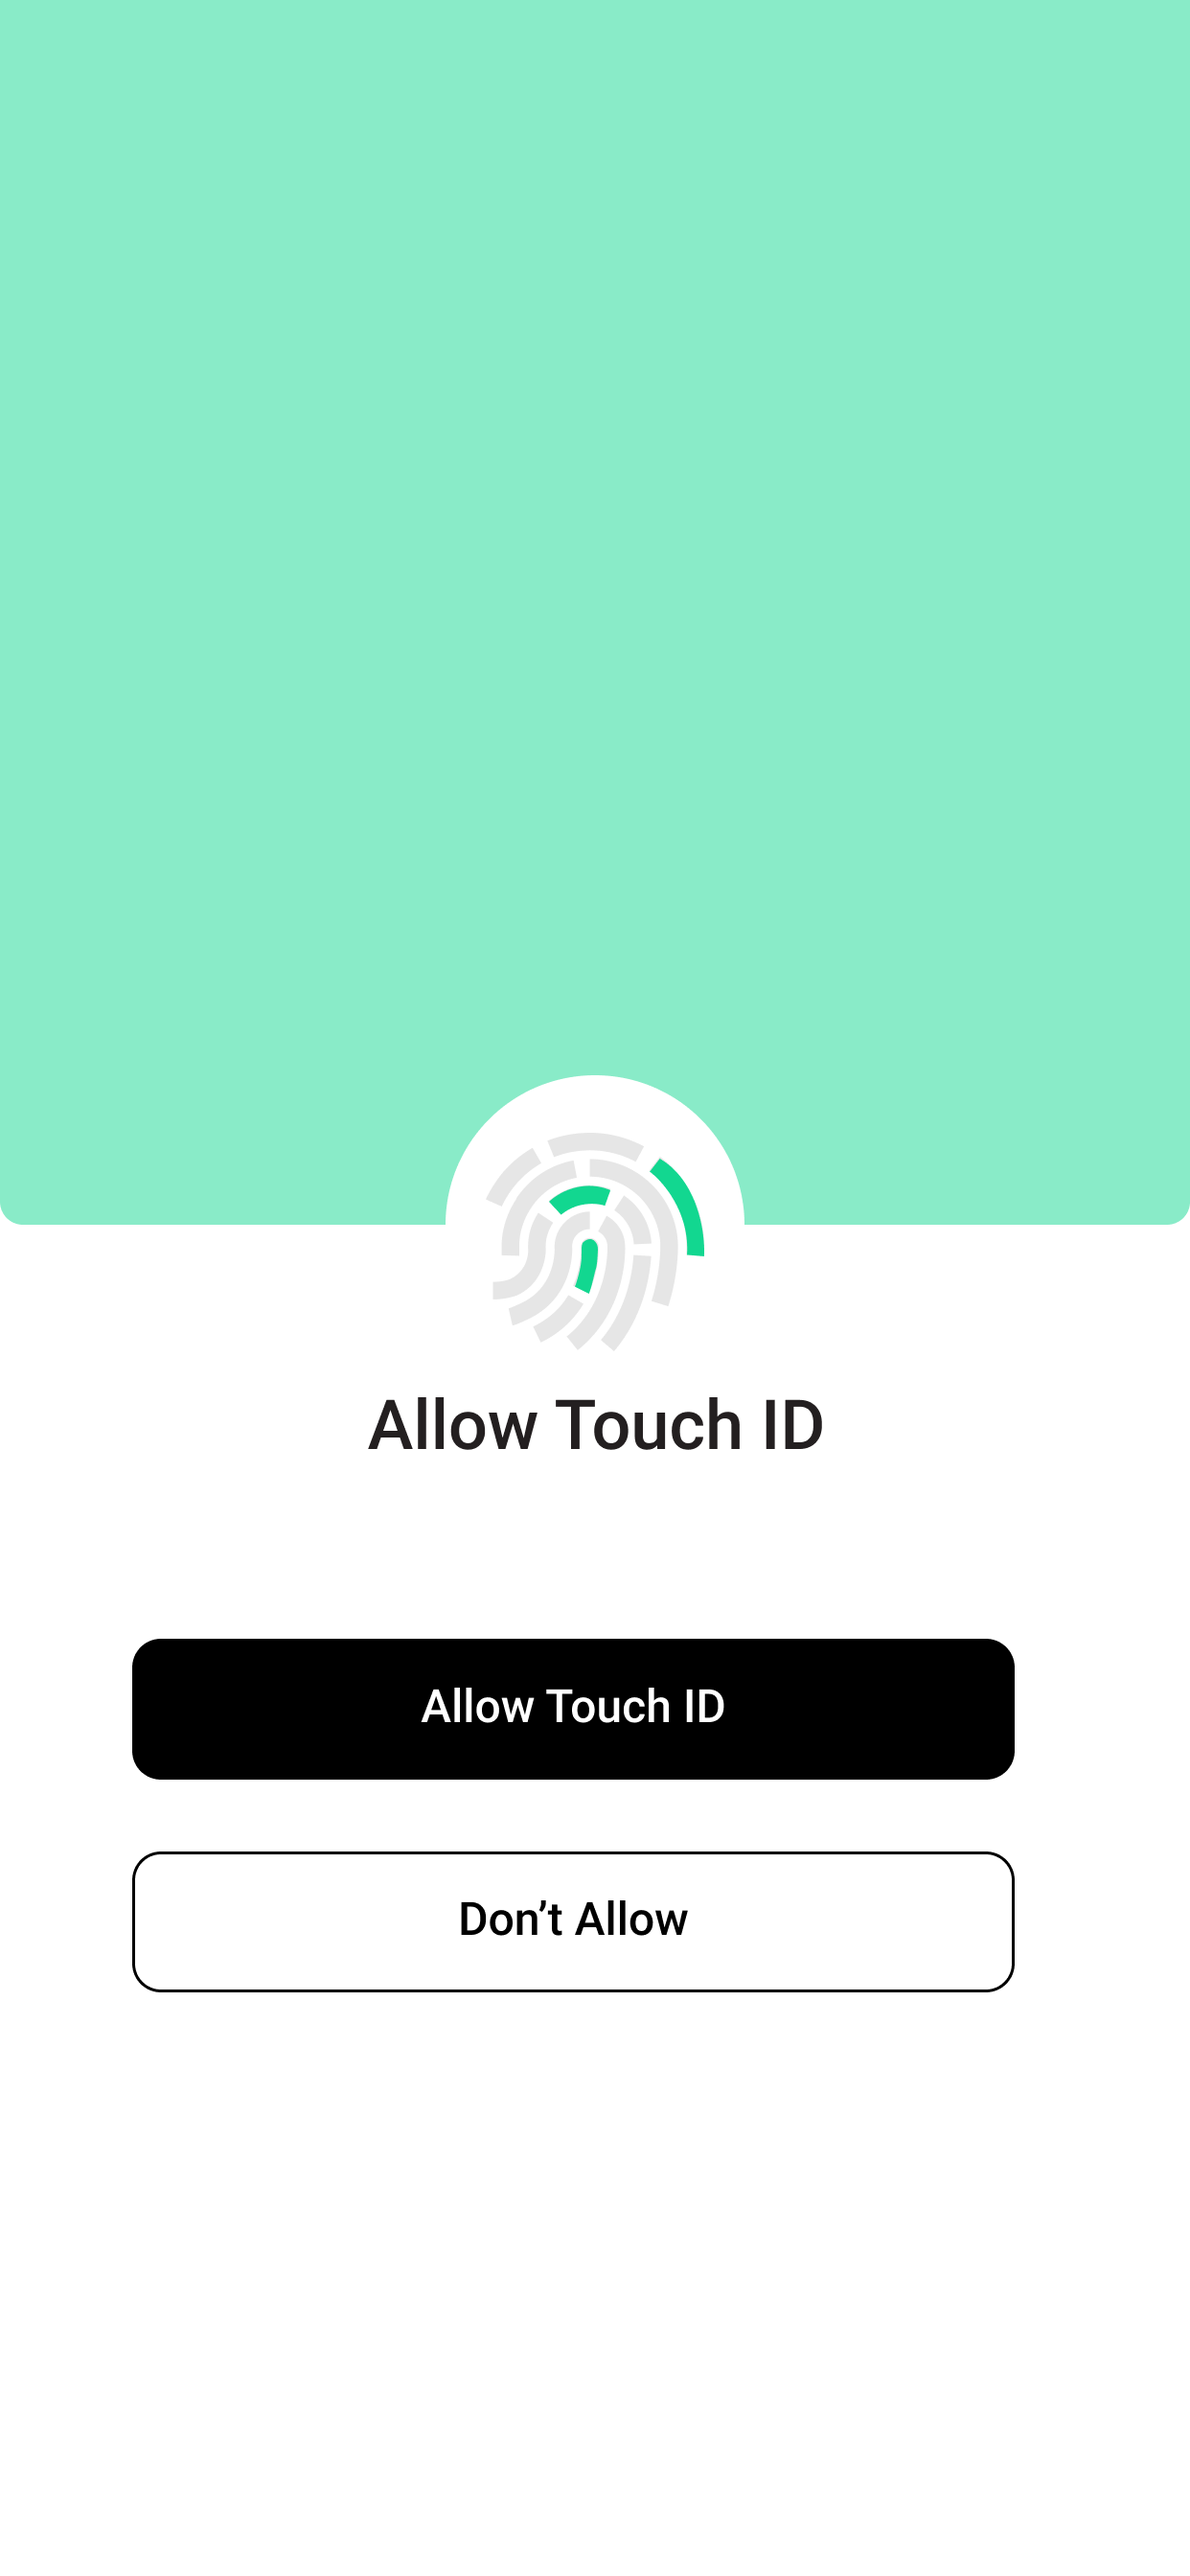
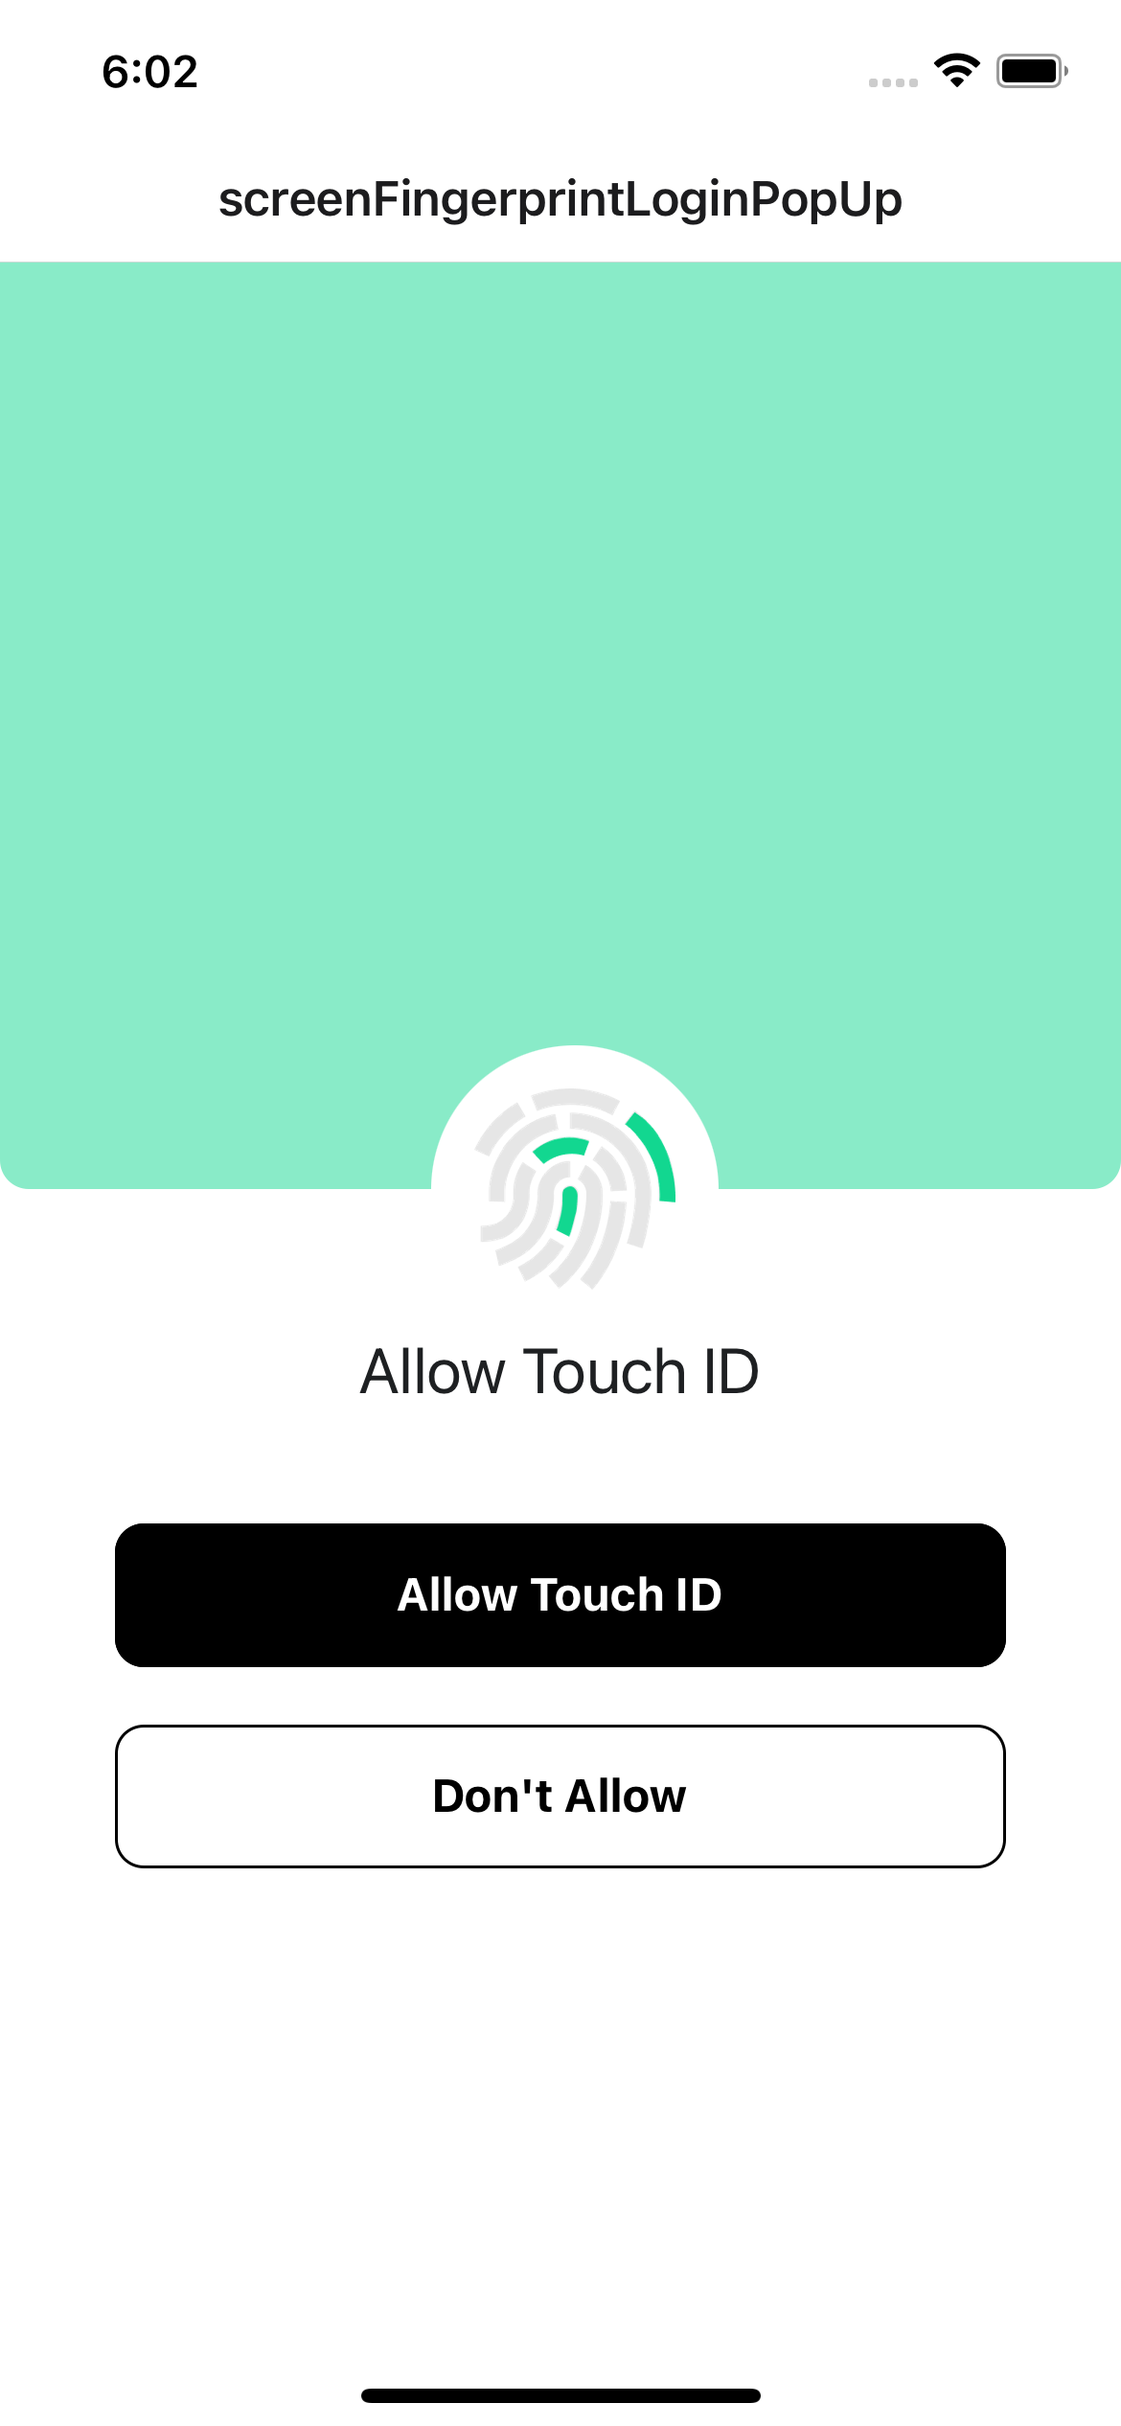
fingerprintloginpopup screen added

diff --git a/screens/screen-fingerprint-login-pop-up/index.js b/screens/screen-fingerprint-login-pop-up/index.js
@@ -1,14 +1,29 @@
 import React from "react";
-import {
-  Text,
-  View,
-  StyleSheet
-} from "react-native";
+import { Text, View, StyleSheet, Image, Pressable } from "react-native";
 
 const FingerprintLoginPopUp = () => {
   return (
     <View style={styles.container}>
-      <Text style={styles.heading}>Fingerprint Login Pop-up</Text>
+      <View style={styles.upper}>
+        <View style={styles.iconContainer}>
+          <Image
+            source={require("./assets/fingerprintIcon.png")}
+            style={styles.icon}
+          />
+        </View>
+      </View>
+      <View style={styles.lower}>
+        <Text style={styles.heading}>Allow Touch ID</Text>
+        <Button buttonText="Allow Touch ID" style={styles.button} hideShadow />
+        <Button
+          buttonText="Don't Allow"
+          outlineColor="#000"
+          color="#fff"
+          textColor="#000"
+          hideShadow
+          style={styles.button}
+        />
+      </View>
     </View>
   );
 };
@@ -17,9 +32,108 @@ const styles = StyleSheet.create({
     flex: 1,
     backgroundColor: "#fff"
   },
+  upper: {
+    flex: 3,
+    backgroundColor: "#89EBC8",
+    borderBottomLeftRadius: 10,
+    borderBottomRightRadius: 10,
+    justifyContent: "flex-end"
+  },
+  lower: {
+    flex: 4
+  },
+  iconContainer: {
+    width: 100,
+    height: 100,
+    backgroundColor: "#fff",
+    borderRadius: 50,
+    justifyContent: "center",
+    alignItems: "center",
+    position: "absolute",
+    bottom: -50,
+    left: 150
+  },
+  icon: {
+    width: 70,
+    height: 70
+  },
   heading: {
-    fontSize: 20
+    fontSize: 22,
+    textAlign: "center",
+    alignSelf: "center",
+    marginTop: 50,
+    marginBottom: 20,
+    width: "70%",
+    color: "#1E2022"
+  },
+  button: {
+    marginTop: 20,
+    marginHorizontal: 40
   }
 });
 
 export default FingerprintLoginPopUp;
+
+const Button = params => {
+  const backgroundColor = params.color || "#000";
+  const textColor = params.textColor || "#fff";
+  const btnStyle = {
+    backgroundColor: backgroundColor,
+    borderColor: params.outlineColor || backgroundColor,
+    borderWidth: 1
+  };
+  const btnText = {
+    color: textColor
+  };
+  return (
+    <View style={[buttonStyles.btnContainer, params.style]}>
+      <View style={!params.hideShadow ? buttonStyles.shadowContainer : null}>
+        <Pressable
+          style={[buttonStyles.btn, btnStyle]}
+          onPress={params.onPress}>
+          <Text style={[buttonStyles.btnText, btnText]}>
+            {params.buttonText}
+          </Text>
+          <View style={styles.childrenContainer}>{params.children}</View>
+        </Pressable>
+      </View>
+    </View>
+  );
+};
+
+const buttonStyles = StyleSheet.create({
+  btnContainer: {
+    justifyContent: "center"
+  },
+  shadowContainer: {
+    shadowColor: "rgba(0, 0, 0, 0.5)",
+    shadowOffset: {
+      width: 0,
+      height: 5
+    },
+    shadowOpacity: 0.5,
+    shadowRadius: 10,
+    elevation: 10,
+    backgroundColor: "#fff",
+    borderRadius: 10
+  },
+  btn: {
+    height: 50,
+    padding: 10,
+    paddingHorizontal: 25,
+    borderRadius: 10,
+    justifyContent: "center",
+    alignItems: "center",
+
+    flexDirection: "row"
+  },
+  btnText: {
+    color: "#fff",
+    fontSize: 16,
+    fontWeight: "bold"
+  },
+  childrenContainer: {
+    justifyContent: "center",
+    alignItems: "center"
+  }
+});

diff --git a/modules/index.js b/modules/index.js
@@ -2,7 +2,7 @@ import mods from "./*/index.js";
 import { getModules } from "./modules.js";
 
 export const modules = getModules(mods);
-export const initialRoute = "screenCryptoWalletStats";
+export const initialRoute = "screenFingerprintLoginPopUp";
 // export const initialRoute = modules[0].value.title;
 export const slices = modules
   .filter(mod => mod.value.slice)
